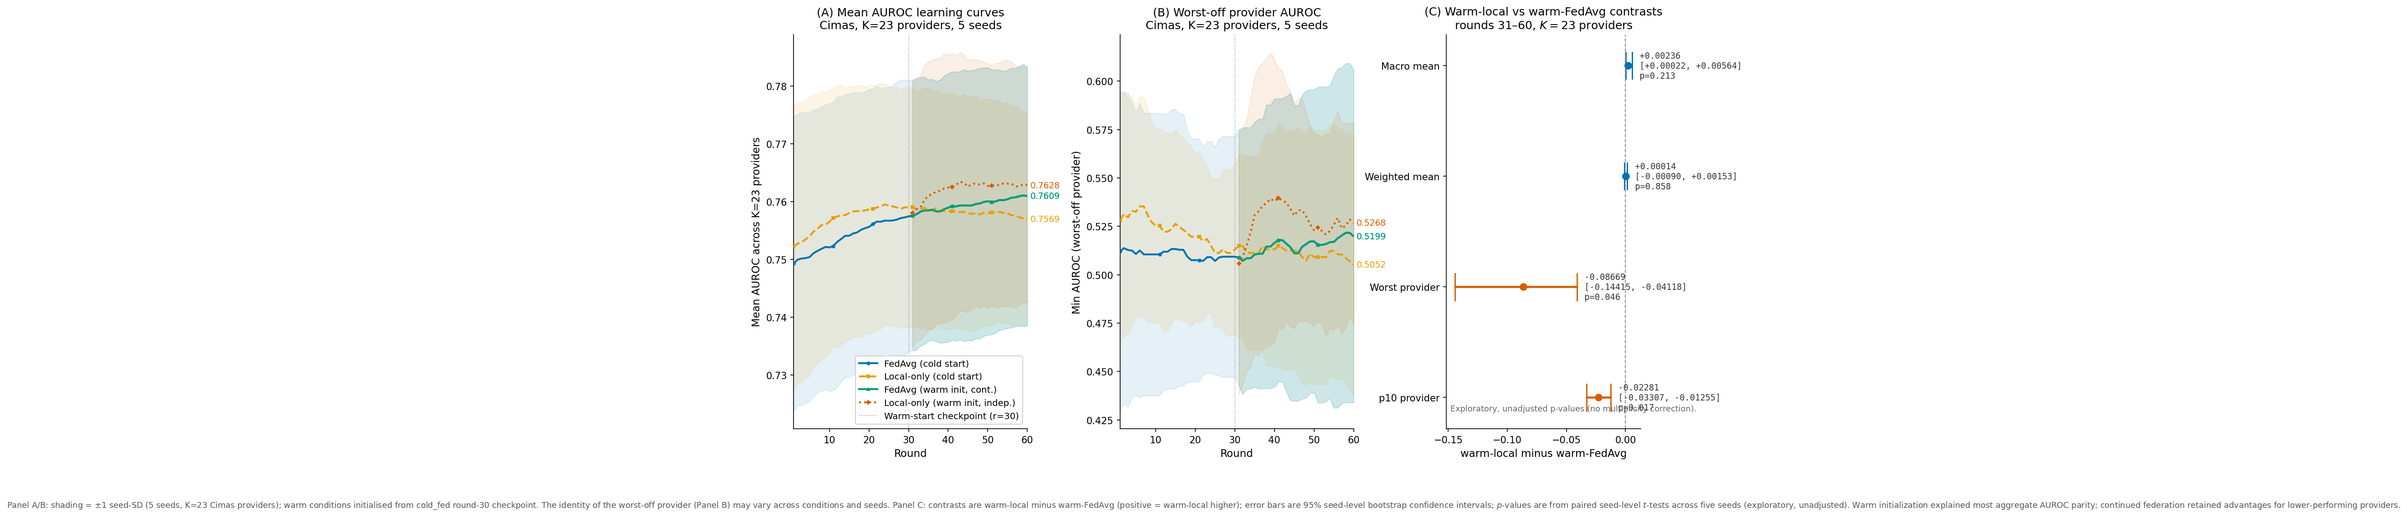
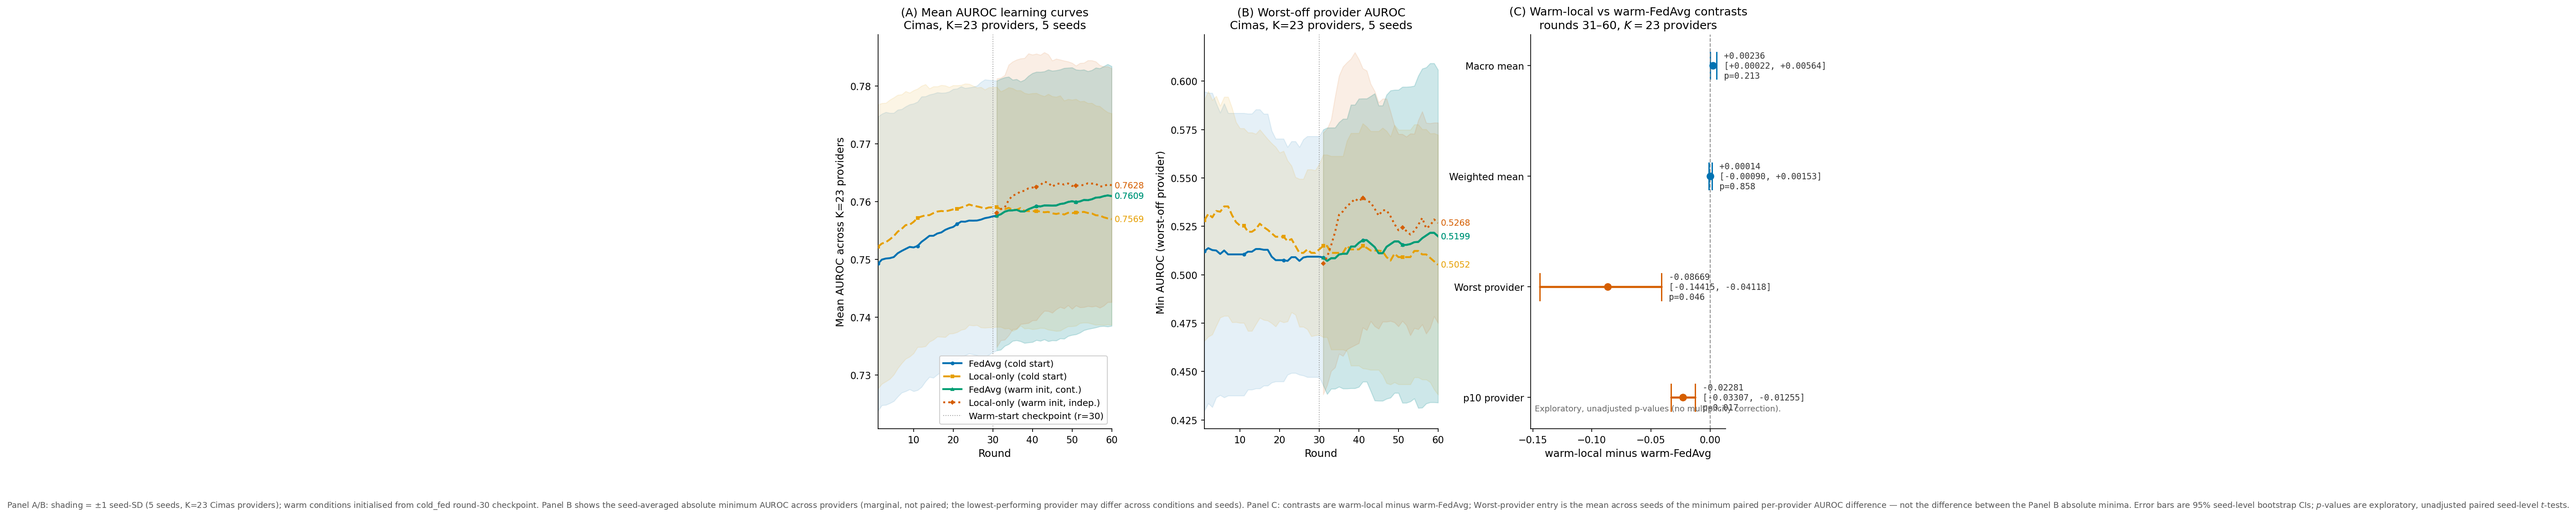
Reconcile worst-provider -0.114 vs absolute minima 0.518/0.509
The -0.114 (mean-across-seeds minimum paired per-provider delta) and the
reported absolute minima 0.518/0.509 are distinct quantities that may
refer to different providers. Their difference (+0.009) is not -0.114.

- 03_results.tex: separate marginal minima from paired worst delta;
  add explicit definition of -0.114 as min-over-providers-per-seed
- supplement_methods_results.tex: add footnote below paired-contrasts
  table distinguishing Worst-provider delta from marginal absolute minima
- fig6_e6_fairness.py caption: clarify Panel B (marginal absolute min)
  vs Panel C worst-provider entry (paired min delta)

diff --git a/trust-ct/manuscript/03_results.tex b/trust-ct/manuscript/03_results.tex
@@ -224,17 +224,26 @@ Under cold FedAvg the provider AUROC interquartile range (IQR) was
 0.092 [0.073, 0.109] versus 0.094 [0.073, 0.116] under cold local;
 the distributions were comparable.
 Warm-local achieved a slightly narrower IQR (0.091 [0.075, 0.105]).
-Worst-provider absolute AUROC was 0.518 [0.444, 0.578] (cold FedAvg),
-0.509 [0.466, 0.566] (cold local), and 0.525 [0.487, 0.565] (warm-local).
+The seed-averaged absolute minimum provider AUROC (lowest-performing provider
+in each condition, marginal, not paired) was 0.518 [0.444, 0.578] under cold
+FedAvg, 0.509 [0.466, 0.566] under cold local, and 0.525 [0.487, 0.565] under
+warm-local (Figure~6B).
+The identity of the lowest-performing provider varied across conditions and seeds;
+these marginal minima do not constitute a paired contrast and their difference
+($+0.009$) is not the worst-provider delta reported below.
 
 \paragraph{Paired contrasts (macro-average, late rounds 51--60).}
 Cold FedAvg versus cold local:
 macro-average $\Delta=+0.003$ [$-0.003$, $+0.008$]; $p=0.39$;
 provider-weighted $\Delta=+0.002$; $p=0.14$.
 No significant bulk AUROC benefit was established.
-The worst-provider contrast delta was $-0.114$ [$-0.141$, $-0.089$]; $p=0.001$:
-the single most data-heterogeneous provider was materially harmed by
-global aggregation.
+The worst-provider \emph{paired} contrast---defined as the mean across five seeds of
+the minimum per-provider AUROC difference (cold-FedAvg minus cold-local) across
+$K=23$ providers---was $-0.114$ [$-0.141$, $-0.089$]; $p=0.001$.
+This quantity identifies, within each seed, the provider most harmed by global
+aggregation relative to local-only training; it is not the arithmetic difference
+between the marginal absolute minima above, which may refer to different providers
+under each condition.
 Zero of 23~providers showed systematic directional effects
 (signal-to-noise ratio $|\bar{\delta}|/\mathrm{SD}_\delta > 2$);
 the effect was highly heterogeneous (SD of provider mean deltas: 0.032~AUROC).

diff --git a/manuscript/figure_scripts/fig6_e6_fairness.py b/manuscript/figure_scripts/fig6_e6_fairness.py
@@ -189,12 +189,13 @@ fig.text(
     0.5, -0.03,
     "Panel A/B: shading = ±1 seed-SD (5 seeds, K=23 Cimas providers); "
     "warm conditions initialised from cold_fed round-30 checkpoint. "
-    "The identity of the worst-off provider (Panel B) may vary across conditions and seeds. "
-    "Panel C: contrasts are warm-local minus warm-FedAvg (positive = warm-local higher); "
-    "error bars are 95% seed-level bootstrap confidence intervals; "
-    r"$p$-values are from paired seed-level $t$-tests across five seeds (exploratory, unadjusted). "
-    "Warm initialization explained most aggregate AUROC parity; "
-    "continued federation retained advantages for lower-performing providers.",
+    "Panel B shows the seed-averaged absolute minimum AUROC across providers "
+    "(marginal, not paired; the lowest-performing provider may differ across conditions and seeds). "
+    "Panel C: contrasts are warm-local minus warm-FedAvg; "
+    "Worst-provider entry is the mean across seeds of the minimum paired per-provider "
+    "AUROC difference — not the difference between the Panel B absolute minima. "
+    "Error bars are 95% seed-level bootstrap CIs; "
+    r"$p$-values are exploratory, unadjusted paired seed-level $t$-tests.",
     ha="center", va="top", fontsize=8.5, color="#555555",
 )
 

diff --git a/trust-ct/manuscript/supplement_methods_results.tex b/trust-ct/manuscript/supplement_methods_results.tex
@@ -210,6 +210,12 @@ warm-local vs warm-FedAvg & Macro AUROC      & $+0.002$ & [$+0.000$, $+0.006$]  
 seed-cluster resamples.
 Provider~$\times$~seed $t$-test ($n=115$) also computed; within-seed
 correlation inflates the effective sample size and is not primary.
+\textbf{Worst-provider} $\Delta$ is the mean across seeds of the
+\emph{minimum} per-provider paired difference (condition~A minus condition~B)
+over $K=23$ providers; it is not the difference between the marginal
+absolute minimum AUROCs reported for each condition separately (those may
+refer to different providers and their difference is $+0.009$ for
+cold-FedAvg vs cold-local).
 
 \paragraph{Contrast heterogeneity.}
 Zero of 23 providers showed a systematic directional effect
